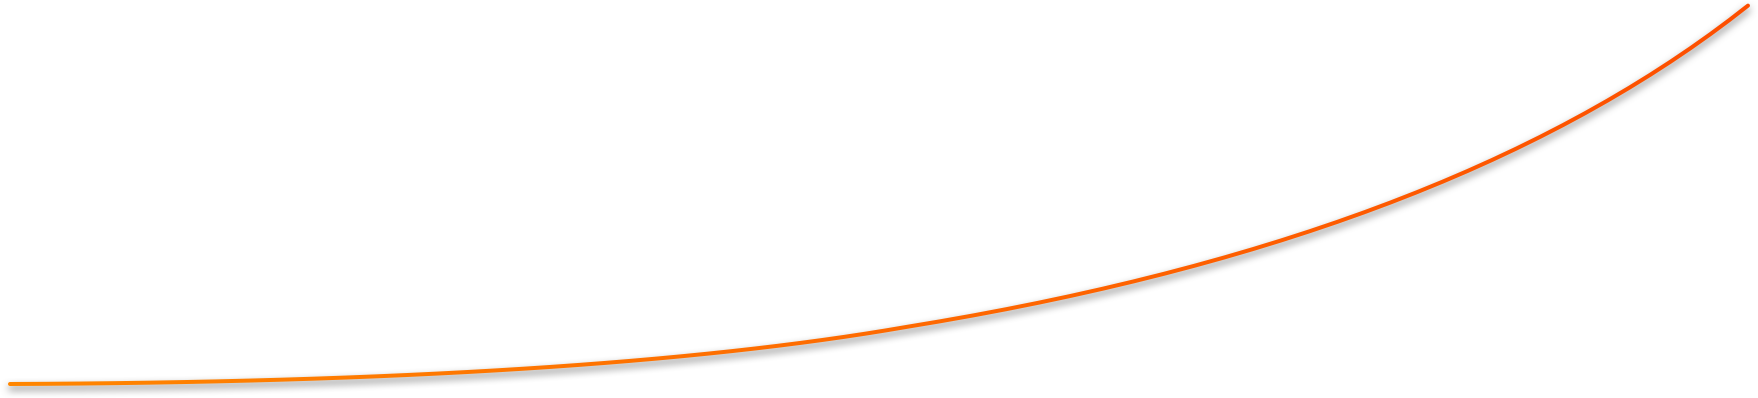
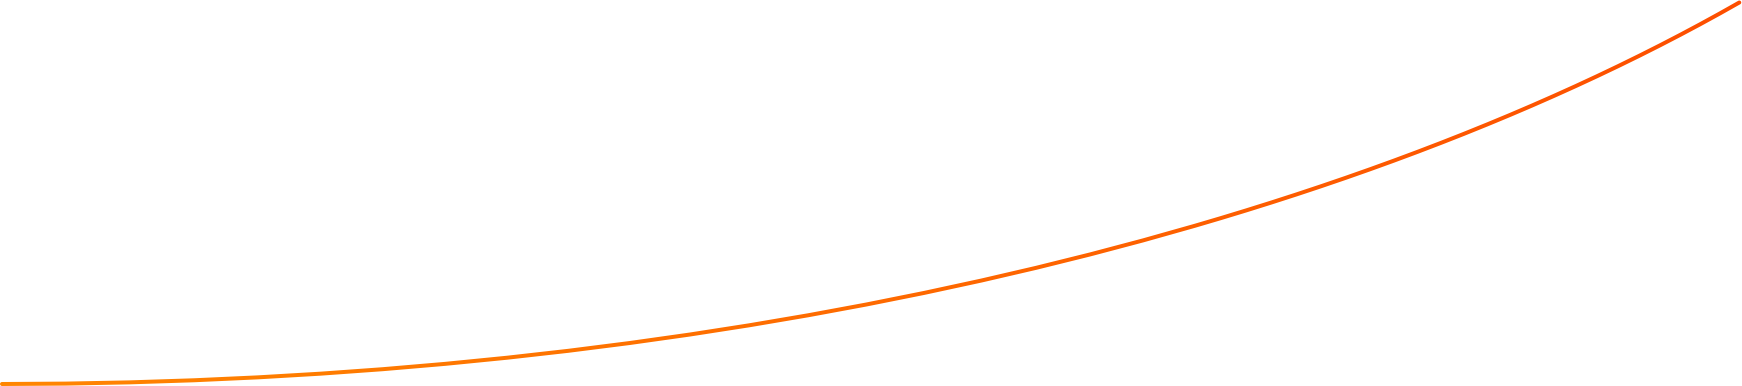
modify: 成长秘籍页面：用切图和椭圆弧线算法实现成长曲线和点数的实时更新；同时保留了原本svg画曲线的旧代码

Changed region(s): [[0.0, 0.5907, 0.744, 1.0], [0.682, 0.0, 1.0, 0.5907], [0.651, 0.5907, 0.682, 0.6218]]

diff --git a/membership/memberGrowth/sourcecode/js/getstart.js b/membership/memberGrowth/sourcecode/js/getstart.js
@@ -364,7 +364,7 @@ function calCurPointsLocation(isInit) {
 		
 		//设置x坐标和椭圆曲线上的标记值
 		for(i=0;i<len;i++){
-			document.getElementsByClassName("xAxisEllipseMark") [i].style.top = calEllipseCoordinateY(lvWidth*i, svgWidth, svgEllipseHeight) + 20 +"px";//有个间隔
+			document.getElementsByClassName("xAxisEllipseMark") [i].style.top = calEllipseCoordinateY(lvWidth*i, svgWidth, svgEllipseHeight) + (i+1)*10 +"px";//有个间隔
 			document.getElementsByClassName("xAxisEllipseMark") [i].innerHTML = _coinsLv[i];
 			//小于用户等级的标注字体变为红色（设计要求）：
 			if(i < _userLv) {
@@ -376,7 +376,7 @@ function calCurPointsLocation(isInit) {
 			document.getElementsByClassName("xAxisCoordinate") [i].innerHTML = "Lv"+(i+1);
 		}
 		//最后一项高度需要再往下移:
-		document.getElementsByClassName("xAxisEllipseMark") [len-1].style.top = (calEllipseCoordinateY(lvWidth*(len-1), svgWidth, svgEllipseHeight) + 85) +"px";//有个间隔
+		document.getElementsByClassName("xAxisEllipseMark") [len-1].style.top = (calEllipseCoordinateY(lvWidth*(len-1), svgWidth, svgEllipseHeight) + 105) +"px";//有个间隔
 		console.log("calCurPointsLocation out. init phase, only draw static elements, not draw dynamic elements.");
 		//return;
 	}
@@ -400,8 +400,8 @@ function calCurPointsLocation(isInit) {
 	if(i==0) {i=1};
 
 	//3.计算当前点数占用的空间宽度和高度,当为0时为计算方便,改为1;
-	var curLeft = (i-1)*lvWidth;
-	var deltaWidth = Math.round(lvWidth * ((_userPoints <= 1 ? 1 : _userPoints) - _coinsLv[i-1]) / (_coinsLv[i] - _coinsLv[i-1]));
+	var curLeft = Math.floor((i-1)*lvWidth);
+	var deltaWidth = Math.floor(lvWidth * ((_userPoints <= 1 ? 1 : _userPoints) - _coinsLv[i-1]) / (_coinsLv[i] - _coinsLv[i-1]));
 	curLeft += deltaWidth;
 	console.log("------deltaWidth:"+deltaWidth+"-curLeft:"+curLeft);
 	
@@ -437,8 +437,9 @@ function calCurPointsLocation(isInit) {
 	//画当前点的值,对最大最小值的边界值有做处理:
 	var markPointTip = $("#markPointTip");
 	markPointTip.css({
-		"top": (curTop>80 ? (curTop-74) : curTop) +"px",
-		"left":(curLeft < (svgWidth - 120) ? (curLeft) : (svgWidth - 120))+"px", 
+//		"top": (curTop>80 ? (curTop-74) : curTop) +"px",
+		"top": (curTop<0 ? 0 : curTop) +"px",
+		"left":(curLeft < (svgWidth - 130) ? (curLeft) : (svgWidth - 120))+"px", 
 	});
 	markPointTip.text(_userPoints);
 	
@@ -485,11 +486,18 @@ function drawSVGPath(el, pathId) {
 }
 
 //知道椭圆某点坐标x,计算坐标y
+//成长曲线的算法是椭圆上四象限的一段弧线，
+//椭圆rx=2226,ry=1012,原点的x坐标为0=弧线的起始坐标0，
+//因为页面上弧线的区域长宽只有（1742,453），所以计算出来的y坐标=原点的y坐标 - （1012-453+72）
 function calEllipseCoordinateY(x, rx, ry){
-	//rx = 2032;//=1742*7/6; //为了椭圆曲线更平滑一些，把x轴长拉长；
-	rx = 1887;//=1742*13/12; //为了椭圆曲线更平滑一些，把x轴长拉长；
+	var rx = 2226, ry = 1012;
+	var deltaY = 631;
+	
 	var ySquare = (1-(x*x/(rx*rx))) * ry * ry;
 	var y = Math.round(Math.sqrt(ySquare));
+	
+	y = y - deltaY;
+	
 	return y;
 }
 
@@ -522,6 +530,7 @@ function getUserCoinsInfo() {
 			if(data.success == true) {
 				_userLv = data.data.level.gradeLevel;
 				_userPoints = data.data.points;
+				_userPoints = 111110; //yuanbotest
 				$("#userLv").text("Lv"+_userLv);
 				$("#coinNum").text((data.data.coins).toFixed(1));
 				//更新用户当前点位:

diff --git a/activities/thanksGaving2018/sourceCode/js/framework.js b/activities/thanksGaving2018/sourceCode/js/framework.js
@@ -48,23 +48,23 @@ var _TVSource = "";
 //产品包信息(测试)
 var _VIPInfos = {
 	iqiyi: {
-		 year:  {mainProductId: 1000406, toastProductId: 1000404, bgurl: "http://sky.fs.skysrt.com/statics/webvip/webapp/activityPay/d20181113yinheyear.png"}
-		,season:{mainProductId: 1000407, toastProductId: 1000405, bgurl: "http://sky.fs.skysrt.com/statics/webvip/webapp/activityPay/d20181113yinhes.png"}
+		 year:  {mainProductId: 1000406, toastProductId: 1000404, bgurl: "http://sky.fs.skysrt.com/statics/webvip/webapp/activityPay/newd20181113yinheyear.png"}
+		,season:{mainProductId: 1000407, toastProductId: 1000405, bgurl: "http://sky.fs.skysrt.com/statics/webvip/webapp/activityPay/newd20181113yinhes.png"}
 	}
 	,tencent: {
-		 year:  {mainProductId: 1000400, toastProductId: 1000402, bgurl: "http://sky.fs.skysrt.com/statics/webvip/webapp/activityPay/d20181113txyear.png"}
-		,season:{mainProductId: 1000401, toastProductId: 1000403, bgurl: "http://sky.fs.skysrt.com/statics/webvip/webapp/activityPay/d20181113txs.png"}
+		 year:  {mainProductId: 1000400, toastProductId: 1000402, bgurl: "http://sky.fs.skysrt.com/statics/webvip/webapp/activityPay/newd20181113txyear.png"}
+		,season:{mainProductId: 1000401, toastProductId: 1000403, bgurl: "http://sky.fs.skysrt.com/statics/webvip/webapp/activityPay/newd20181113txs.png"}
 	}
 };
 //产品包信息(正式)
 var _VIPInfosRel = {
 	iqiyi: {
-		 year:  {mainProductId: 1323, toastProductId: 1334, bgurl: "http://sky.fs.skysrt.com/statics/webvip/webapp/activityPay/d20181113yinheyear.png"}
-		,season:{mainProductId: 1324, toastProductId: 1335, bgurl: "http://sky.fs.skysrt.com/statics/webvip/webapp/activityPay/d20181113yinhes.png"}
+		 year:  {mainProductId: 1323, toastProductId: 1334, bgurl: "http://sky.fs.skysrt.com/statics/webvip/webapp/activityPay/newd20181113yinheyear.png"}
+		,season:{mainProductId: 1324, toastProductId: 1335, bgurl: "http://sky.fs.skysrt.com/statics/webvip/webapp/activityPay/newd20181113yinhes.png"}
 	}
 	,tencent: {
-		 year:  {mainProductId: 1325, toastProductId: 1336, bgurl: "http://sky.fs.skysrt.com/statics/webvip/webapp/activityPay/d20181113txyear.png"}
-		,season:{mainProductId: 1326, toastProductId: 1337, bgurl: "http://sky.fs.skysrt.com/statics/webvip/webapp/activityPay/d20181113txs.png"}
+		 year:  {mainProductId: 1325, toastProductId: 1336, bgurl: "http://sky.fs.skysrt.com/statics/webvip/webapp/activityPay/newd20181113txyear.png"}
+		,season:{mainProductId: 1326, toastProductId: 1337, bgurl: "http://sky.fs.skysrt.com/statics/webvip/webapp/activityPay/newd20181113txs.png"}
 	}
 };
 //奖品提示信息,id号或数组排序要跟转盘排序匹配（跟后台确认）

diff --git a/membership/memberLevelInterest/sourcecode/index.html b/membership/memberLevelInterest/sourcecode/index.html
@@ -53,31 +53,31 @@
 			<!--内容区-->
 			<div class="contentContainer">
 				<div class="levelIntro">
-					<div class="levelIcon coocaa_btn" id="Icon0" rightTaret="#Icon1" downTarget="#Icon4"></div>
+					<div class="levelIcon coocaa_btn" id="Icon0" rightTarget="#Icon1" downTarget="#Icon4"></div>
 					<div class="levelTitle"></div>
 				</div>
 				<div class="levelIntro">
-					<div class="levelIcon coocaa_btn" id="Icon1" leftTaret="#Icon0" rightTarget="#Icon2" downTarget="#Icon5"></div>
+					<div class="levelIcon coocaa_btn" id="Icon1" leftTarget="#Icon0" rightTarget="#Icon2" downTarget="#Icon5"></div>
 					<div class="levelTitle"></div>
 				</div>
 				<div class="levelIntro">
-					<div class="levelIcon coocaa_btn" id="Icon2" leftTaret="#Icon1" rightTarget="#Icon3" downTarget="#Icon6"></div>
+					<div class="levelIcon coocaa_btn" id="Icon2" leftTarget="#Icon1" rightTarget="#Icon3" downTarget="#Icon6"></div>
 					<div class="levelTitle"></div>
 				</div>
 				<div class="levelIntro">
-					<div class="levelIcon coocaa_btn" id="Icon3" leftTaret="#Icon2" rightTarget="#Icon4" downTarget="#Icon6"></div>
+					<div class="levelIcon coocaa_btn" id="Icon3" leftTarget="#Icon2" rightTarget="#Icon4" downTarget="#Icon6"></div>
 					<div class="levelTitle"></div>
 				</div>
 				<div class="levelIntro">
-					<div class="levelIcon coocaa_btn" id="Icon4" leftTaret="#Icon3" rightTarget="#Icon5" upTarget="#Icon0"></div>
+					<div class="levelIcon coocaa_btn" id="Icon4" leftTarget="#Icon3" rightTarget="#Icon5" upTarget="#Icon0"></div>
 					<div class="levelTitle"></div>
 				</div>
 				<div class="levelIntro">
-					<div class="levelIcon coocaa_btn" id="Icon5" leftTaret="#Icon4" rightTarget="#Icon6" upTarget="#Icon1"></div>
+					<div class="levelIcon coocaa_btn" id="Icon5" leftTarget="#Icon4" rightTarget="#Icon6" upTarget="#Icon1"></div>
 					<div class="levelTitle"></div>
 				</div>
 				<div class="levelIntro">
-					<div class="levelIcon coocaa_btn" id="Icon6" leftTaret="#Icon5" rightTarget="#Icon0" upTarget="#Icon2"></div>
+					<div class="levelIcon coocaa_btn" id="Icon6" leftTarget="#Icon5" rightTarget="#Icon0" upTarget="#Icon2"></div>
 					<div class="levelTitle"></div>
 				</div>
 

diff --git a/membership/memberGrowth/sourcecode/css/index.css b/membership/memberGrowth/sourcecode/css/index.css
@@ -124,7 +124,7 @@ body {
 /*内容区*/
 .container {
 	position: absolute;
-	top: 173px;
+	top: 160px;
 	width: 100%;
 	height: 1900px;
 	overflow: hidden;
@@ -132,7 +132,7 @@ body {
 
 .innerContainer {
 	position: relative;
-	top: 0px;
+	top: 13px;
 	left: 89px;
 	width: 1742px;
 	height: 1900px;
@@ -143,7 +143,7 @@ body {
 .curveDivClass {
 	position: relative;
 	width:100%;
-	height: 448px;
+	height: 453px;
 } 
 
 #gotCoinsPath {
@@ -267,8 +267,8 @@ body {
 	position: absolute;	
 	top: 0px;
 	left: 0px;
-	width: 1758px;
-	height: 398px;
+	width: 1742px;
+	height: 386px;
 	background-image: url("../img/curveLine.png");
 	background-repeat: no-repeat;	
 }
